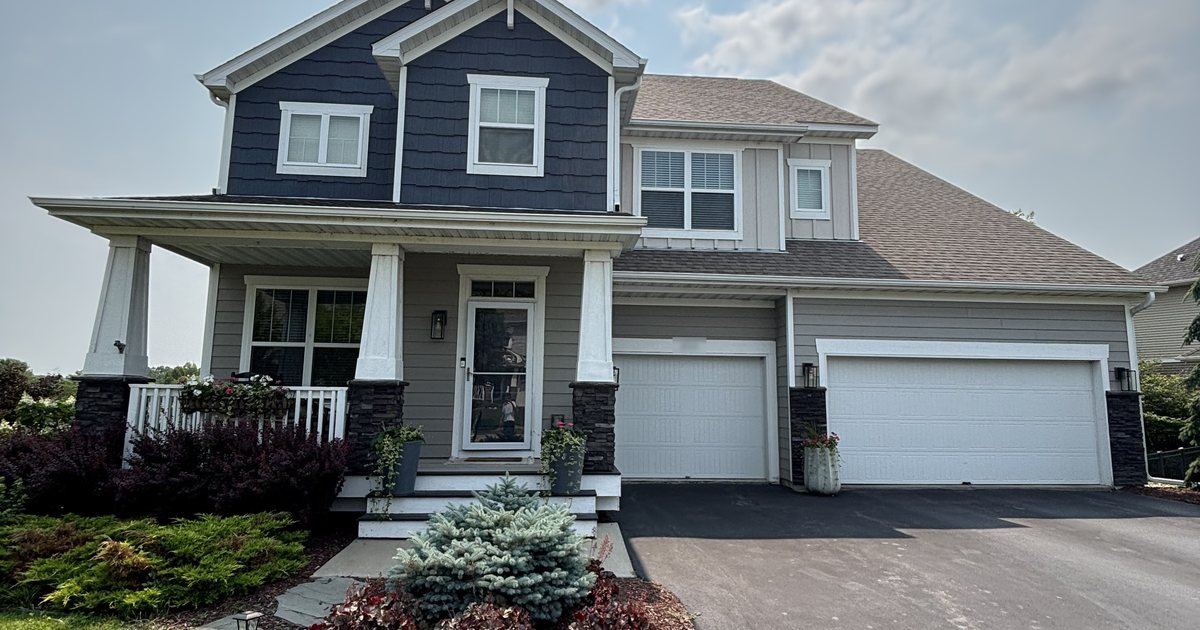
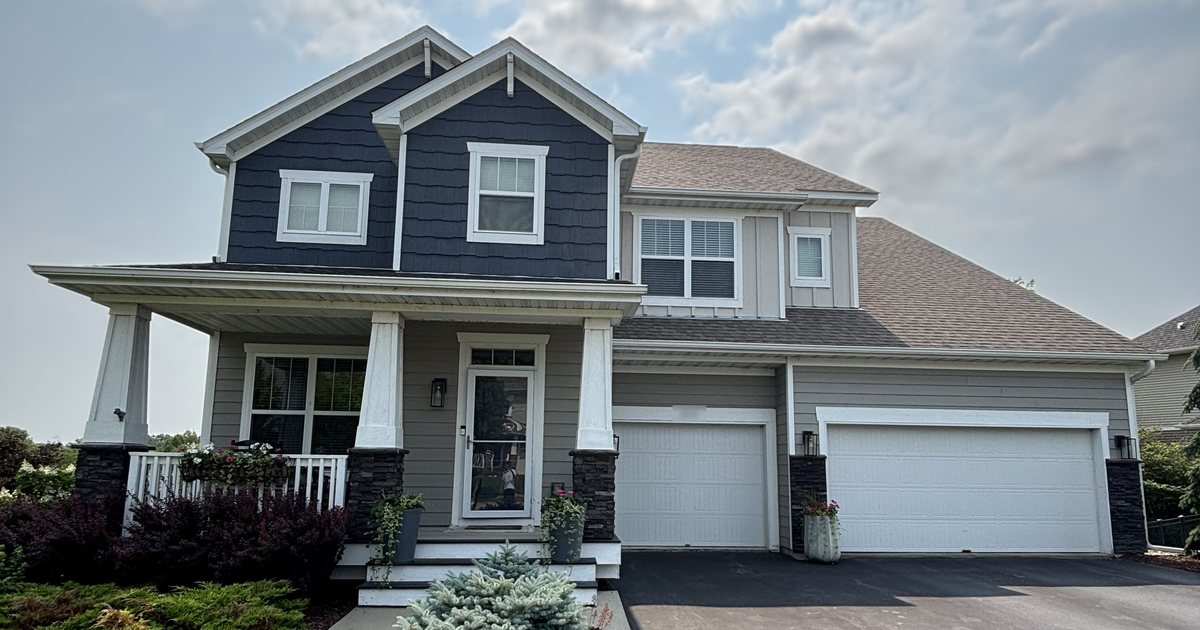
Framing second pass: Chanhassen phone hero and seven share cards
Claude-Session: https://claude.ai/code/session_013TG1fpM7hCivswLAd4Jj1u

diff --git a/window-cleaning-orono-mn/index.html b/window-cleaning-orono-mn/index.html
@@ -105,7 +105,7 @@
 
 <main id="main">
   <section class="svc-hero">
-    <div class="svc-hero-media" aria-hidden="true"><picture><source type="image/webp" srcset="../assets/img/jobs/orono-window-cleaning-home-400w.webp 400w, ../assets/img/jobs/orono-window-cleaning-home-640w.webp 640w, ../assets/img/jobs/orono-window-cleaning-home-760w.webp 760w, ../assets/img/jobs/orono-window-cleaning-home-1200w.webp 1200w, ../assets/img/jobs/orono-window-cleaning-home-1920w.webp 1920w" sizes="100vw"><img class="svc-hero-img" src="../assets/img/jobs/orono-window-cleaning-home-1920w.jpg" srcset="../assets/img/jobs/orono-window-cleaning-home-400w.jpg 400w, ../assets/img/jobs/orono-window-cleaning-home-640w.jpg 640w, ../assets/img/jobs/orono-window-cleaning-home-760w.jpg 760w, ../assets/img/jobs/orono-window-cleaning-home-1200w.jpg 1200w, ../assets/img/jobs/orono-window-cleaning-home-1920w.jpg 1920w" sizes="100vw" alt="" width="1920" height="1440" fetchpriority="high" decoding="async" style="object-position:50% 45%"></picture></div>
+    <div class="svc-hero-media" aria-hidden="true"><picture><source type="image/webp" srcset="../assets/img/jobs/orono-window-cleaning-home-400w.webp 400w, ../assets/img/jobs/orono-window-cleaning-home-640w.webp 640w, ../assets/img/jobs/orono-window-cleaning-home-760w.webp 760w, ../assets/img/jobs/orono-window-cleaning-home-1200w.webp 1200w, ../assets/img/jobs/orono-window-cleaning-home-1920w.webp 1920w" sizes="100vw"><img class="svc-hero-img" src="../assets/img/jobs/orono-window-cleaning-home-1920w.jpg" srcset="../assets/img/jobs/orono-window-cleaning-home-400w.jpg 400w, ../assets/img/jobs/orono-window-cleaning-home-640w.jpg 640w, ../assets/img/jobs/orono-window-cleaning-home-760w.jpg 760w, ../assets/img/jobs/orono-window-cleaning-home-1200w.jpg 1200w, ../assets/img/jobs/orono-window-cleaning-home-1920w.jpg 1920w" sizes="100vw" alt="" width="1920" height="1440" fetchpriority="high" decoding="async" style="object-position:84% 45%"></picture></div>
     <div class="svc-hero-overlay" aria-hidden="true"></div>
     <div class="container">
       <nav class="crumbs crumbs-light" aria-label="Breadcrumb"><a href="../index.html">Home</a><svg viewBox="0 0 24 24" fill="none" stroke="currentColor" stroke-width="1.9" stroke-linecap="round" stroke-linejoin="round" aria-hidden="true"><path d="m6 9 6 6 6-6"/></svg><a href="../service-areas.html">Service Areas</a><svg viewBox="0 0 24 24" fill="none" stroke="currentColor" stroke-width="1.9" stroke-linecap="round" stroke-linejoin="round" aria-hidden="true"><path d="m6 9 6 6 6-6"/></svg><span>Orono</span></nav>

diff --git a/services/christmas-light-installation.html b/services/christmas-light-installation.html
@@ -128,8 +128,8 @@
       <div class="xmas-countdown" data-countdown role="timer" aria-live="off">
         <div class="cd-cell"><span class="cd-num" data-cd="d">03</span><span class="cd-label">Days</span></div>
         <div class="cd-cell"><span class="cd-num" data-cd="h">22</span><span class="cd-label">Hours</span></div>
-        <div class="cd-cell"><span class="cd-num" data-cd="m">25</span><span class="cd-label">Minutes</span></div>
-        <div class="cd-cell"><span class="cd-num" data-cd="s">17</span><span class="cd-label">Seconds</span></div>
+        <div class="cd-cell"><span class="cd-num" data-cd="m">16</span><span class="cd-label">Minutes</span></div>
+        <div class="cd-cell"><span class="cd-num" data-cd="s">08</span><span class="cd-label">Seconds</span></div>
       </div>
       <a class="btn btn-lg" href="../get-quote.html?svc=christmas-light-installation">Get Your Free Quote <svg viewBox="0 0 24 24" fill="none" stroke="currentColor" stroke-width="1.9" stroke-linecap="round" stroke-linejoin="round" aria-hidden="true"><path d="M5 12h14M13 6l6 6-6 6"/></svg></a>
       <p class="xmas-promo-limit"><svg viewBox="0 0 24 24" fill="none" stroke="currentColor" stroke-width="2" stroke-linecap="round" stroke-linejoin="round" aria-hidden="true"><path d="m21.73 18-8-14a2 2 0 0 0-3.48 0l-8 14A2 2 0 0 0 4 21h16a2 2 0 0 0 1.73-3Z"/><path d="M12 9v4M12 17h.01"/></svg> We Are Only Taking On 50 New Clients This Year</p>

diff --git a/build/sitedata.py b/build/sitedata.py
@@ -1051,12 +1051,17 @@ IMAGE_FOCAL = {
     "assets/img/instagram/17950840314027611.jpg": {"insta-card-media-el": "50% 33%"},
     "assets/img/svc-interior-window-cleaning.jpg": {"og": "50% 43%"},
     "assets/img/svc-screen-cleaning-services.jpg": {"og": "50% 19%"},
-    "assets/img/svc-hand-scrubbing.jpg": {"og": "50% 47%"},
+    "assets/img/svc-hand-scrubbing.jpg": {"og": "50% 53%"},
     "assets/img/instagram/18001854047986368_3.jpg": {"og": "50% 3%"},
     "assets/img/instagram/18001854047986368_0.jpg": {"og": "50% 77%"},
-    "assets/img/instagram/17870581794546118_0.jpg": {"og": "50% 14%"},
+    "assets/img/instagram/17870581794546118_0.jpg": {"og": "50% 19%"},
     "assets/img/instagram/17870581794546118_2.jpg": {"og": "50% 4%"},
     "assets/img/hero-home.jpg": {"og": "50% 60%"},
+    "assets/img/jobs/orono-window-cleaning-home.jpg": {"og": "50% 57%"},
+    "assets/img/jobs/plymouth-crew-and-van-from-the-roof.jpg": {"og": "50% 37%"},
+    "assets/img/jobs/victoria-two-story-front-windows.jpg": {"og": "50% 43%"},
+    "assets/img/svc-solar-panel-cleaning.jpg": {"og": "50% 43%"},
+    "assets/img/svc-track-detailing.jpg": {"og": "50% 52%"},
 }
 
 IMAGE_ALT = {
@@ -1212,7 +1217,7 @@ CITY_PAGES = [
         # The owner's own Orono job (the Instagram sunroom shot used here first
         # turned out to be one of their Wayzata jobs).
         "hero": "assets/img/jobs/orono-window-cleaning-home.jpg",
-        "hero_pos": "45%",
+        "hero_pos": "84% 45%",
         "hero_sub": "From the lake homes on Crystal Bay and Browns Bay to the wooded acreages back from the water, we keep Orono&rsquo;s glass clear. Fully insured, with a 100% satisfaction guarantee.",
         "why_heading": "One city, two very different kinds of homes",
         "why_intro": [
